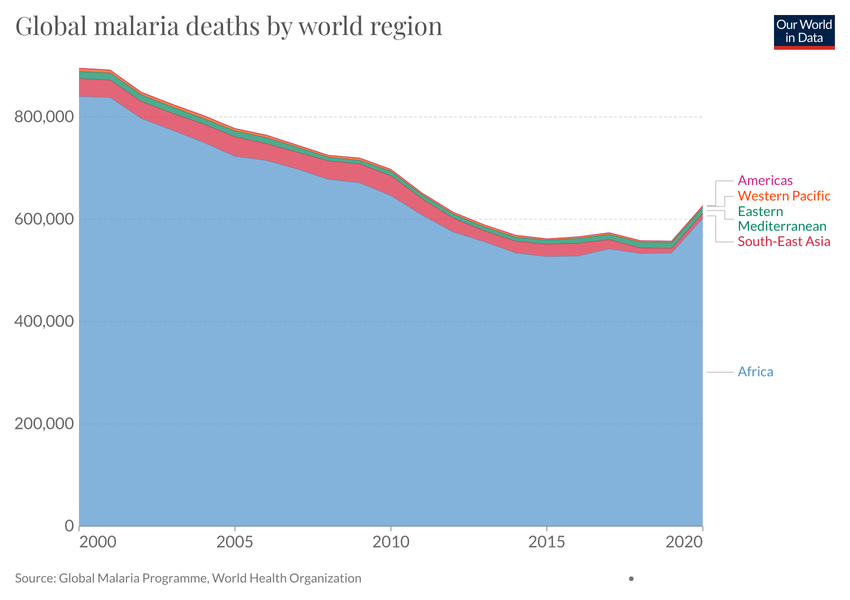
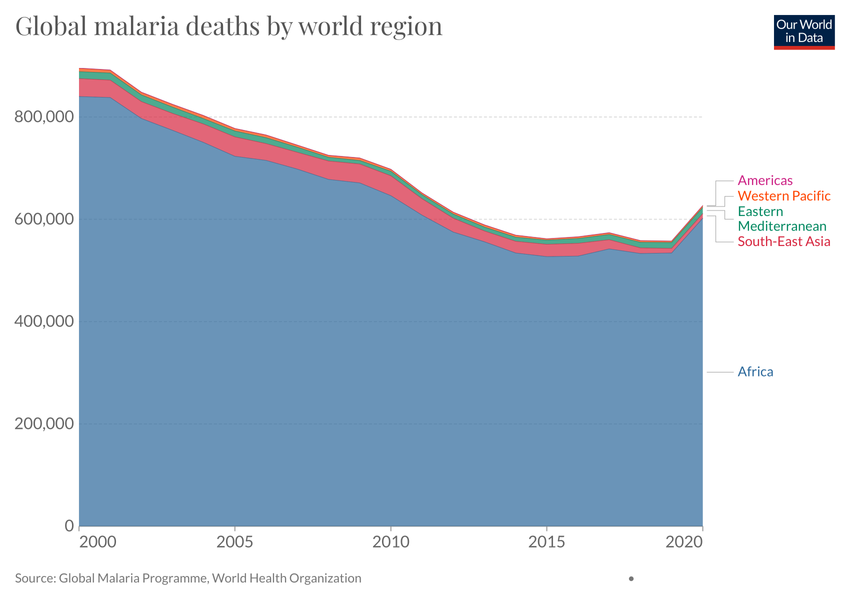
Deploy 2022-03-06T05:52:49.399Z Updating chart global-malaria-deaths-by-world-region Updating chart global-malaria-deaths-by-world-region

diff --git a/grapher/global-malaria-deaths-by-world-region.html b/grapher/global-malaria-deaths-by-world-region.html
@@ -1,6 +1,6 @@
 <!doctype html><html><head><meta name="viewport" content="width=device-width, initial-scale=1"/><title>Global malaria deaths by world region - Our World in Data</title><meta name="description" content="An interactive visualization from Our World in Data."/><link rel="canonical" href="https://ourworldindata.org/grapher/global-malaria-deaths-by-world-region"/><link rel="alternate" type="application/atom+xml" href="/atom.xml"/><link rel="apple-touch-icon" sizes="180x180" href="/apple-touch-icon.png"/><meta property="fb:app_id" content="1149943818390250"/><meta property="og:url" content="https://ourworldindata.org/grapher/global-malaria-deaths-by-world-region"/><meta property="og:title" content="Global malaria deaths by world region"/><meta property="og:description" content="An interactive visualization from Our World in Data."/><meta property="og:image" content="https://ourworldindata.org/default-grapher-thumbnail.png"/><meta property="og:site_name" content="Our World in Data"/><meta name="twitter:card" content="summary_large_image"/><meta name="twitter:site" content="@OurWorldInData"/><meta name="twitter:creator" content="@OurWorldInData"/><meta name="twitter:title" content="Global malaria deaths by world region"/><meta name="twitter:description" content="An interactive visualization from Our World in Data."/><meta name="twitter:image" content="https://ourworldindata.org/default-grapher-thumbnail.png"/><link href="https://fonts.googleapis.com/css?family=Lato:300,400,400i,700,700i|Playfair+Display:400,700&amp;display=swap" rel="stylesheet"/><link rel="stylesheet" href="https://ourworldindata.org/assets/commons.css"/><link rel="stylesheet" href="https://ourworldindata.org/assets/owid.css"/><meta property="og:image:width" content="1200"/><meta property="og:image:height" content="628"/><script>if (window != window.top) document.documentElement.classList.add('IsInIframe')</script><noscript><style>
                     figure { display: none !important; }
-                </style></noscript><link rel="preload" href="/grapher/data/variables/347639.json?v=10" as="fetch" crossorigin="anonymous"/></head><body class="StandaloneGrapherOrExplorerPage"><header class="site-header"><div class="wrapper site-navigation-bar"><div class="site-logo"><a href="/">Our World<br/> in Data</a></div><nav class="site-navigation"><div class="topics-button-wrapper"><a href="/#entries" class="topics-button"><div class="label">Articles <br/><strong>by topic</strong></div><div class="icon"><svg width="12" height="6"><path d="M0,0 L12,0 L6,6 Z" fill="currentColor"></path></svg></div></a></div><div><div class="site-primary-navigation"><form class="HeaderSearch" action="/search" method="GET"><input type="search" name="q" placeholder="Search..."/><div class="icon"><svg aria-hidden="true" focusable="false" data-prefix="fas" data-icon="search" class="svg-inline--fa fa-search fa-w-16 " role="img" xmlns="http://www.w3.org/2000/svg" viewBox="[phone redacted]"><path fill="currentColor" d="M505 442.7L405.3 343c-[phone redacted]-7H372c27.[phone redacted]-128C416 [phone redacted] 0S0 93.1 0 208s93.[phone redacted] 208c48.[phone redacted]-44v16.3c0 [phone redacted] 17l99.7 99.7c9.[phone redacted] 0l28.3-28.3c9.[phone redacted]-34zM208 336c-[phone redacted]-[phone redacted] [phone redacted].[phone redacted] 128-128 128z"></path></svg></div></form><ul class="site-primary-links"><li><a href="/blog" data-track-note="header-navigation">Latest</a></li><li><a href="/about" data-track-note="header-navigation">About</a></li><li><a href="/donate" data-track-note="header-navigation">Donate</a></li></ul></div><div class="site-secondary-navigation"><ul class="site-secondary-links"><li><a href="/charts" data-track-note="header-navigation">All charts</a></li><li><a href="https://sdg-tracker.org" data-track-note="header-navigation">Sustainable Development Goals Tracker</a></li></ul></div></div></nav><div class="header-logos-wrapper"><a href="https://www.oxfordmartin.ox.ac.uk/global-development" class="oxford-logo"><img src="https://ourworldindata.org/oms-logo.svg" alt="Oxford Martin School logo"/></a><a href="https://global-change-data-lab.org/" class="gcdl-logo"><img src="https://ourworldindata.org/gcdl-logo.svg" alt="Global Change Data Lab logo"/></a></div><div class="mobile-site-navigation"><button data-track-note="mobile-search-button"><svg aria-hidden="true" focusable="false" data-prefix="fas" data-icon="search" class="svg-inline--fa fa-search fa-w-16 " role="img" xmlns="http://www.w3.org/2000/svg" viewBox="[phone redacted]"><path fill="currentColor" d="M505 442.7L405.3 343c-[phone redacted]-7H372c27.[phone redacted]-128C416 [phone redacted] 0S0 93.1 0 208s93.[phone redacted] 208c48.[phone redacted]-44v16.3c0 [phone redacted] 17l99.7 99.7c9.[phone redacted] 0l28.3-28.3c9.[phone redacted]-34zM208 336c-[phone redacted]-[phone redacted] [phone redacted].[phone redacted] 128-128 128z"></path></svg></button><button data-track-note="mobile-newsletter-button"><svg aria-hidden="true" focusable="false" data-prefix="fas" data-icon="envelope-open-text" class="svg-inline--fa fa-envelope-open-text fa-w-16 " role="img" xmlns="http://www.w3.org/2000/svg" viewBox="[phone redacted]"><path fill="currentColor" d="M176 216h160c8.[phone redacted]-16v-16c0-[phone redacted]-16H176c-[phone redacted] 16v16c0 [phone redacted] 16zm-16 80c0 [phone redacted] 16h160c8.[phone redacted]-16v-16c0-[phone redacted]-16H176c-[phone redacted] 16v16zm96 121.13c-[phone redacted].86-15.19L0 250.86V464c0 [phone redacted] 48h416c26.[phone redacted]-48V250.86L302.86 401.94c-[phone redacted].[phone redacted].19zm237.61-254.18c-[phone redacted]-29.61-22.81V96c0-[phone redacted]-48h-77.55c-[phone redacted].56C312.[phone redacted]-.35 256 0c-23.2-.[phone redacted] [phone redacted].04 6.56H96c-[phone redacted] 48v44.14c-[phone redacted]-29.61 22.81A47.[phone redacted].72v10.65l96 69.35V96h320v184.72l96-69.35v-10.65c0-[phone redacted]-37.77z"></path></svg></button><button data-track-note="mobile-hamburger-button"><svg aria-hidden="true" focusable="false" data-prefix="fas" data-icon="bars" class="svg-inline--fa fa-bars fa-w-14 " role="img" xmlns="http://www.w3.org/2000/svg" viewBox="[phone redacted]"><path fill="currentColor" d="M16 132h416c8.[phone redacted]-16V76c0-[phone redacted]-16H16C7.[phone redacted] 76v40c0 [phone redacted] 16zm0 160h416c8.[phone redacted]-16v-40c0-[phone redacted]-16H16c-[phone redacted] 16v40c0 [phone redacted] 16zm0 160h416c8.[phone redacted]-16v-40c0-[phone redacted]-16H16c-[phone redacted] 16v40c0 [phone redacted] 16z"></path></svg></button></div></div></header><div class="alert-banner"><div class="content"><div class="text"><strong>In the news</strong></div><a href="/ukraine-war" data-track-note="covid-banner-click">Explore data for context of the war in Ukraine</a></div></div><main><figure data-grapher-src="/grapher/global-malaria-deaths-by-world-region"><div class="loading-indicator"><span style="border-color:#333"></span></div></figure><noscript id="fallback"><img src="https://ourworldindata.org/grapher/exports/global-malaria-deaths-by-world-region.svg"/><p>Interactive visualization requires JavaScript</p></noscript><div class="related-research-data"><h2>All our related research and data</h2><h3>Charts</h3><ul><li><a href="/grapher/malaria-deaths-by-age">Deaths from malaria, by age</a></li><li><a href="/grapher/incidence-of-malaria-sdgs">Malaria incidence (per 1,000 population at risk)</a></li><li><a href="/grapher/malaria-deaths-ihme">Number of deaths from malaria</a></li><li><a href="/grapher/the-number-of-deaths-from-malaria-by-world-region">The number of deaths from malaria by world region</a></li></ul></div></main><section class="donate-footer"><div class="wrapper"><div class="owid-row flex-align-center"><div class="owid-col owid-col--lg-3 owid-padding-bottom--sm-3"><p>Our World in Data is free and accessible for everyone.</p><p>Help us do this work by making a donation.</p></div><div class="owid-col owid-col--lg-1"><a href="/donate" class="owid-button donate-button" data-track-note="donate-footer"><span class="label">Donate now</span><span class="icon"><svg aria-hidden="true" focusable="false" data-prefix="fas" data-icon="angle-right" class="svg-inline--fa fa-angle-right fa-w-8 " role="img" xmlns="http://www.w3.org/2000/svg" viewBox="[phone redacted]"><path fill="currentColor" d="M224.3 273l-136 136c-[phone redacted] 0l-22.6-22.6c-[phone redacted].9l96.[phone redacted].4c-[phone redacted].9L54.3 103c9.[phone redacted] 0l136 136c9.[phone redacted] 34z"></path></svg></span></a></div></div></div></section><footer class="site-footer"><div class="wrapper"><div class="owid-row"><div class="owid-col owid-col--lg-1"><ul><li><a href="/about" data-track-note="footer-navigation">About</a></li><li><a href="/about#contact" data-track-note="footer-navigation">Contact</a></li><li><a href="/feedback" data-track-note="footer-navigation">Feedback</a></li><li><a href="/jobs" data-track-note="footer-navigation">Jobs</a></li><li><a href="/funding" data-track-note="footer-navigation">Funding</a></li><li><a href="/about/how-to-use-our-world-in-data" data-track-note="footer-navigation">How to use</a></li><li><a href="/donate" data-track-note="footer-navigation">Donate</a></li><li><a href="/privacy-policy" data-track-note="footer-navigation">Privacy policy</a></li></ul></div><div class="owid-col owid-col--lg-1"><ul><li><a href="/blog" data-track-note="footer-navigation">Latest publications</a></li><li><a href="/charts" data-track-note="footer-navigation">All charts</a></li></ul><ul><li><a href="https://twitter.com/OurWorldInData" data-track-note="footer-navigation">Twitter</a></li><li><a href="https://www.facebook.com/OurWorldinData" data-track-note="footer-navigation">Facebook</a></li><li><a href="https://github.com/owid" data-track-note="footer-navigation">GitHub</a></li><li><a href="/feed" data-track-note="footer-navigation">RSS Feed</a></li></ul></div><div class="owid-col owid-col--lg-1"><div class="logos"><a href="https://www.oxfordmartin.ox.ac.uk/research/programmes/global-development" class="partner-logo" data-track-note="footer-navigation"><img src="https://ourworldindata.org/oms-logo.svg" alt="Oxford Martin School logo" loading="lazy"/></a><a href="/owid-at-ycombinator" class="partner-logo" data-track-note="footer-navigation"><img src="https://ourworldindata.org/yc-logo.png" alt="Y Combinator logo" loading="lazy"/></a></div></div><div class="owid-col flex-2"><div class="legal"><p>License: All the material produced by Our World in Data, including interactive visualizations and code, are completely open access under the <a href="https://creativecommons.org/licenses/by/4.0/" target="_blank" rel="noopener noreferrer">Creative Commons BY license</a>. You have the permission to use, distribute, and reproduce these in any medium, provided the source and authors are credited. All other material, including data produced by third parties and made available by Our World in Data, is subject to the license terms from the original third-party authors.</p><p>Please consult our full <a href="/about#legal">legal disclaimer</a>.</p><p><a href="https://global-change-data-lab.org/" class="partner-logo gcdl-logo" data-track-note="footer-navigation"><img src="https://ourworldindata.org/gcdl-logo.svg" alt="Global Change Data Lab logo" loading="lazy"/></a>Our World In Data is a project of the <a href="https://global-change-data-lab.org/">Global Change Data Lab</a>, a registered charity in England and Wales (Charity Number [phone redacted]).</p></div></div></div></div><div class="site-tools"></div><script src="https://polyfill.io/v3/polyfill.min.js?features=es6,fetch,URL,IntersectionObserver,IntersectionObserverEntry"></script><script src="https://ourworldindata.org/assets/commons.js"></script><script src="https://ourworldindata.org/assets/vendors.js"></script><script src="https://ourworldindata.org/assets/owid.js"></script><script>window.runSiteFooterScripts()</script></footer><script>const jsonConfig = 
+                </style></noscript><link rel="preload" href="/grapher/data/variables/347639.json?v=12" as="fetch" crossorigin="anonymous"/></head><body class="StandaloneGrapherOrExplorerPage"><header class="site-header"><div class="wrapper site-navigation-bar"><div class="site-logo"><a href="/">Our World<br/> in Data</a></div><nav class="site-navigation"><div class="topics-button-wrapper"><a href="/#entries" class="topics-button"><div class="label">Articles <br/><strong>by topic</strong></div><div class="icon"><svg width="12" height="6"><path d="M0,0 L12,0 L6,6 Z" fill="currentColor"></path></svg></div></a></div><div><div class="site-primary-navigation"><form class="HeaderSearch" action="/search" method="GET"><input type="search" name="q" placeholder="Search..."/><div class="icon"><svg aria-hidden="true" focusable="false" data-prefix="fas" data-icon="search" class="svg-inline--fa fa-search fa-w-16 " role="img" xmlns="http://www.w3.org/2000/svg" viewBox="[phone redacted]"><path fill="currentColor" d="M505 442.7L405.3 343c-[phone redacted]-7H372c27.[phone redacted]-128C416 [phone redacted] 0S0 93.1 0 208s93.[phone redacted] 208c48.[phone redacted]-44v16.3c0 [phone redacted] 17l99.7 99.7c9.[phone redacted] 0l28.3-28.3c9.[phone redacted]-34zM208 336c-[phone redacted]-[phone redacted] [phone redacted].[phone redacted] 128-128 128z"></path></svg></div></form><ul class="site-primary-links"><li><a href="/blog" data-track-note="header-navigation">Latest</a></li><li><a href="/about" data-track-note="header-navigation">About</a></li><li><a href="/donate" data-track-note="header-navigation">Donate</a></li></ul></div><div class="site-secondary-navigation"><ul class="site-secondary-links"><li><a href="/charts" data-track-note="header-navigation">All charts</a></li><li><a href="https://sdg-tracker.org" data-track-note="header-navigation">Sustainable Development Goals Tracker</a></li></ul></div></div></nav><div class="header-logos-wrapper"><a href="https://www.oxfordmartin.ox.ac.uk/global-development" class="oxford-logo"><img src="https://ourworldindata.org/oms-logo.svg" alt="Oxford Martin School logo"/></a><a href="https://global-change-data-lab.org/" class="gcdl-logo"><img src="https://ourworldindata.org/gcdl-logo.svg" alt="Global Change Data Lab logo"/></a></div><div class="mobile-site-navigation"><button data-track-note="mobile-search-button"><svg aria-hidden="true" focusable="false" data-prefix="fas" data-icon="search" class="svg-inline--fa fa-search fa-w-16 " role="img" xmlns="http://www.w3.org/2000/svg" viewBox="[phone redacted]"><path fill="currentColor" d="M505 442.7L405.3 343c-[phone redacted]-7H372c27.[phone redacted]-128C416 [phone redacted] 0S0 93.1 0 208s93.[phone redacted] 208c48.[phone redacted]-44v16.3c0 [phone redacted] 17l99.7 99.7c9.[phone redacted] 0l28.3-28.3c9.[phone redacted]-34zM208 336c-[phone redacted]-[phone redacted] [phone redacted].[phone redacted] 128-128 128z"></path></svg></button><button data-track-note="mobile-newsletter-button"><svg aria-hidden="true" focusable="false" data-prefix="fas" data-icon="envelope-open-text" class="svg-inline--fa fa-envelope-open-text fa-w-16 " role="img" xmlns="http://www.w3.org/2000/svg" viewBox="[phone redacted]"><path fill="currentColor" d="M176 216h160c8.[phone redacted]-16v-16c0-[phone redacted]-16H176c-[phone redacted] 16v16c0 [phone redacted] 16zm-16 80c0 [phone redacted] 16h160c8.[phone redacted]-16v-16c0-[phone redacted]-16H176c-[phone redacted] 16v16zm96 121.13c-[phone redacted].86-15.19L0 250.86V464c0 [phone redacted] 48h416c26.[phone redacted]-48V250.86L302.86 401.94c-[phone redacted].[phone redacted].19zm237.61-254.18c-[phone redacted]-29.61-22.81V96c0-[phone redacted]-48h-77.55c-[phone redacted].56C312.[phone redacted]-.35 256 0c-23.2-.[phone redacted] [phone redacted].04 6.56H96c-[phone redacted] 48v44.14c-[phone redacted]-29.61 22.81A47.[phone redacted].72v10.65l96 69.35V96h320v184.72l96-69.35v-10.65c0-[phone redacted]-37.77z"></path></svg></button><button data-track-note="mobile-hamburger-button"><svg aria-hidden="true" focusable="false" data-prefix="fas" data-icon="bars" class="svg-inline--fa fa-bars fa-w-14 " role="img" xmlns="http://www.w3.org/2000/svg" viewBox="[phone redacted]"><path fill="currentColor" d="M16 132h416c8.[phone redacted]-16V76c0-[phone redacted]-16H16C7.[phone redacted] 76v40c0 [phone redacted] 16zm0 160h416c8.[phone redacted]-16v-40c0-[phone redacted]-16H16c-[phone redacted] 16v40c0 [phone redacted] 16zm0 160h416c8.[phone redacted]-16v-40c0-[phone redacted]-16H16c-[phone redacted] 16v40c0 [phone redacted] 16z"></path></svg></button></div></div></header><div class="alert-banner"><div class="content"><div class="text"><strong>In the news</strong></div><a href="/ukraine-war" data-track-note="covid-banner-click">Explore data for context of the war in Ukraine</a></div></div><main><figure data-grapher-src="/grapher/global-malaria-deaths-by-world-region"><div class="loading-indicator"><span style="border-color:#333"></span></div></figure><noscript id="fallback"><img src="https://ourworldindata.org/grapher/exports/global-malaria-deaths-by-world-region.svg"/><p>Interactive visualization requires JavaScript</p></noscript><div class="related-research-data"><h2>All our related research and data</h2><h3>Charts</h3><ul><li><a href="/grapher/malaria-deaths-by-age">Deaths from malaria, by age</a></li><li><a href="/grapher/incidence-of-malaria-sdgs">Malaria incidence (per 1,000 population at risk)</a></li><li><a href="/grapher/malaria-deaths-ihme">Number of deaths from malaria</a></li><li><a href="/grapher/the-number-of-deaths-from-malaria-by-world-region">The number of deaths from malaria by world region</a></li></ul></div></main><section class="donate-footer"><div class="wrapper"><div class="owid-row flex-align-center"><div class="owid-col owid-col--lg-3 owid-padding-bottom--sm-3"><p>Our World in Data is free and accessible for everyone.</p><p>Help us do this work by making a donation.</p></div><div class="owid-col owid-col--lg-1"><a href="/donate" class="owid-button donate-button" data-track-note="donate-footer"><span class="label">Donate now</span><span class="icon"><svg aria-hidden="true" focusable="false" data-prefix="fas" data-icon="angle-right" class="svg-inline--fa fa-angle-right fa-w-8 " role="img" xmlns="http://www.w3.org/2000/svg" viewBox="[phone redacted]"><path fill="currentColor" d="M224.3 273l-136 136c-[phone redacted] 0l-22.6-22.6c-[phone redacted].9l96.[phone redacted].4c-[phone redacted].9L54.3 103c9.[phone redacted] 0l136 136c9.[phone redacted] 34z"></path></svg></span></a></div></div></div></section><footer class="site-footer"><div class="wrapper"><div class="owid-row"><div class="owid-col owid-col--lg-1"><ul><li><a href="/about" data-track-note="footer-navigation">About</a></li><li><a href="/about#contact" data-track-note="footer-navigation">Contact</a></li><li><a href="/feedback" data-track-note="footer-navigation">Feedback</a></li><li><a href="/jobs" data-track-note="footer-navigation">Jobs</a></li><li><a href="/funding" data-track-note="footer-navigation">Funding</a></li><li><a href="/about/how-to-use-our-world-in-data" data-track-note="footer-navigation">How to use</a></li><li><a href="/donate" data-track-note="footer-navigation">Donate</a></li><li><a href="/privacy-policy" data-track-note="footer-navigation">Privacy policy</a></li></ul></div><div class="owid-col owid-col--lg-1"><ul><li><a href="/blog" data-track-note="footer-navigation">Latest publications</a></li><li><a href="/charts" data-track-note="footer-navigation">All charts</a></li></ul><ul><li><a href="https://twitter.com/OurWorldInData" data-track-note="footer-navigation">Twitter</a></li><li><a href="https://www.facebook.com/OurWorldinData" data-track-note="footer-navigation">Facebook</a></li><li><a href="https://github.com/owid" data-track-note="footer-navigation">GitHub</a></li><li><a href="/feed" data-track-note="footer-navigation">RSS Feed</a></li></ul></div><div class="owid-col owid-col--lg-1"><div class="logos"><a href="https://www.oxfordmartin.ox.ac.uk/research/programmes/global-development" class="partner-logo" data-track-note="footer-navigation"><img src="https://ourworldindata.org/oms-logo.svg" alt="Oxford Martin School logo" loading="lazy"/></a><a href="/owid-at-ycombinator" class="partner-logo" data-track-note="footer-navigation"><img src="https://ourworldindata.org/yc-logo.png" alt="Y Combinator logo" loading="lazy"/></a></div></div><div class="owid-col flex-2"><div class="legal"><p>License: All the material produced by Our World in Data, including interactive visualizations and code, are completely open access under the <a href="https://creativecommons.org/licenses/by/4.0/" target="_blank" rel="noopener noreferrer">Creative Commons BY license</a>. You have the permission to use, distribute, and reproduce these in any medium, provided the source and authors are credited. All other material, including data produced by third parties and made available by Our World in Data, is subject to the license terms from the original third-party authors.</p><p>Please consult our full <a href="/about#legal">legal disclaimer</a>.</p><p><a href="https://global-change-data-lab.org/" class="partner-logo gcdl-logo" data-track-note="footer-navigation"><img src="https://ourworldindata.org/gcdl-logo.svg" alt="Global Change Data Lab logo" loading="lazy"/></a>Our World In Data is a project of the <a href="https://global-change-data-lab.org/">Global Change Data Lab</a>, a registered charity in England and Wales (Charity Number [phone redacted]).</p></div></div></div></div><div class="site-tools"></div><script src="https://polyfill.io/v3/polyfill.min.js?features=es6,fetch,URL,IntersectionObserver,IntersectionObserverEntry"></script><script src="https://ourworldindata.org/assets/commons.js"></script><script src="https://ourworldindata.org/assets/vendors.js"></script><script src="https://ourworldindata.org/assets/owid.js"></script><script>window.runSiteFooterScripts()</script></footer><script>const jsonConfig = 
 //EMBEDDED_JSON
 {
   "id": 216,
@@ -31,7 +31,7 @@
   "yAxis": {
     "min": 0
   },
-  "version": 10,
+  "version": 12,
   "originUrl": "https://ourworldindata.org/malaria",
   "dimensions": [
     {
@@ -91,6 +91,7 @@
     "Africa"
   ],
   "selectedEntityColors": {
+    "Africa": "#2b689b",
     "Americas": "#cd2285",
     "South-East Asia": "#d7263f",
     "Eastern Mediterranean": "#008860"

diff --git a/malaria.html b/malaria.html
@@ -21,7 +21,7 @@
         
         <section><div class="section-heading"><div class="wrapper"><div><h2 id="malaria-deaths"><a class="deep-link" href="#malaria-deaths"></a>Malaria deaths</h2></div></div></div><div class="wp-block-columns is-style-sticky-right"><div class="wp-block-column"><p>In the visualizations we provide estimates of the total number of deaths from the World Health Organization (WHO) from 2000 onwards, and the Institute of Health Metrics and Evaluation (IHME), Global Burden of Disease (GBD) from 1990 onwards. </p><p>These estimates are notably different across various countries which affects the total number of reported deaths. IHME figures, as shown, tend to be higher. Further information on the confidence intervals of WHO estimates, and a country-level comparison between these two sources is covered in our section on <a href="https://ourworldindata.org/malaria/#data-quality-definitions">Data Quality &amp; Definitions</a>.</p></div><div class="wp-block-column"></div></div><div class="wp-block-columns is-style-sticky-right"><div class="wp-block-column"><h4 id="malaria-death-estimates-from-who"><a class="deep-link" href="#malaria-death-estimates-from-who"></a>Malaria death estimates from WHO</h4></div><div class="wp-block-column"></div></div><div class="wp-block-columns is-style-sticky-right"><div class="wp-block-column"><p>Since the beginning of the 21st century, the WHO has published global estimates of the number of people that die from malaria. Between 2000 and 2015 the global death toll fell by almost 40%: from 896,000 deaths in 2000 to 562,000 in 2015. Since then, progress has slowed. The number of deaths actually increased in 2020 as a result of disruptions due to the <a href="https://ourworldindata.org/coronavirus">Coronavirus pandemic</a>.<a id="ref-2" class="ref" href="#note-2"><sup>2</sup></a></p><p>Africa is the world region that is most affected by malaria: in 2019, 96% of global deaths from malaria occurred on the African continent. But Africa is also the world region that has achieved most progress: since 2000, deaths have fallen significantly.</p></div><div class="wp-block-column"><figure data-grapher-src="https://ourworldindata.org/grapher/global-malaria-deaths-by-world-region" class="grapherPreview">
                     <a href="https://ourworldindata.org/grapher/global-malaria-deaths-by-world-region" target="_blank">
-                        <div><img src="https://ourworldindata.org/exports/global-malaria-deaths-by-world-region_v10_850x600.svg" width="850" height="600" loading="lazy" data-no-lightbox alt="Global malaria deaths by world region v10 850x600"></div>
+                        <div><img src="https://ourworldindata.org/exports/global-malaria-deaths-by-world-region_v12_850x600.svg" width="850" height="600" loading="lazy" data-no-lightbox alt="Global malaria deaths by world region v12 850x600"></div>
                         <div class="interactionNotice">
                             <span class="icon"><svg aria-hidden="true" focusable="false" data-prefix="fas" data-icon="hand-pointer" class="svg-inline--fa fa-hand-pointer fa-w-14" role="img" xmlns="http://www.w3.org/2000/svg" viewBox="0 0 448 617">
     <path fill="currentColor" d="M448,344.59v96a40.36,40.36,0,0,1-1.06,9.16l-32,136A40,40,0,0,1,376,616.59H168a40,40,0,0,1-32.35-16.47l-128-176a40,40,0,0,1,64.7-47.06L104,420.58v-276a40,40,0,0,1,80,0v200h8v-40a40,40,0,1,1,80,0v40h8v-24a40,40,0,1,1,80,0v24h8a40,40,0,1,1,80,0Zm-256,80h-8v96h8Zm88,0h-8v96h8Zm88,0h-8v96h8Z" transform="translate(0 -0.41)"/>